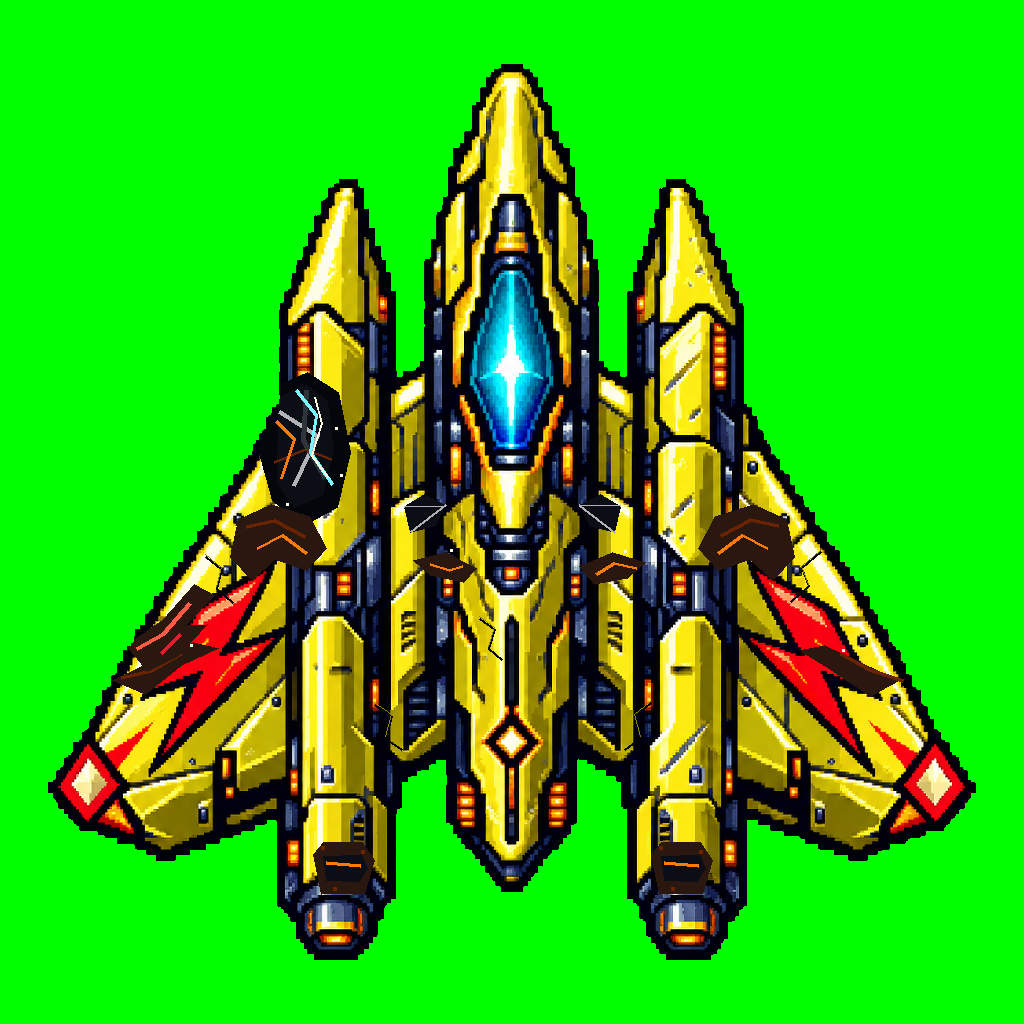
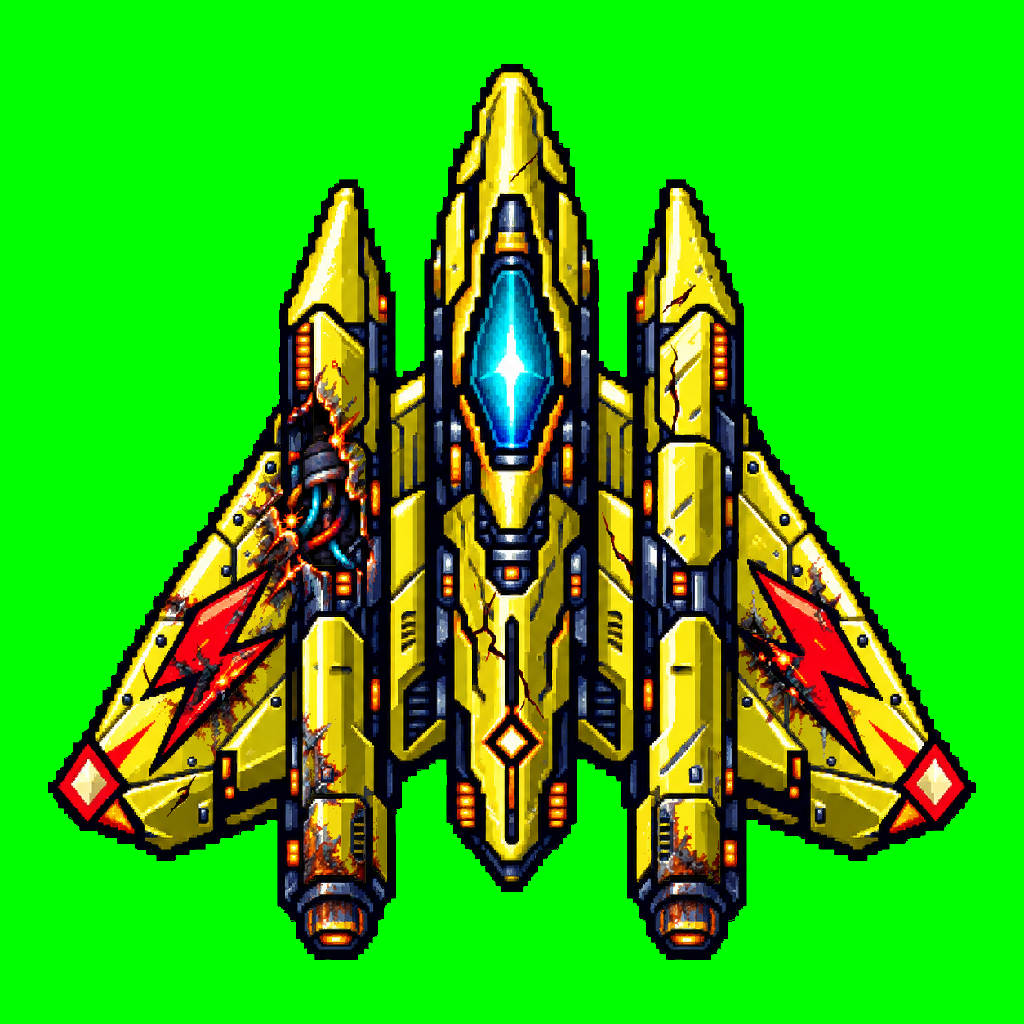
WIP Lightning: painted damage keys (J1c)

diff --git a/Pause/Assets/Art/Resources/ShipArt/Lightning/src~/codex/tools/check_j1c.py b/Pause/Assets/Art/Resources/ShipArt/Lightning/src~/codex/tools/check_j1c.py
@@ -1,0 +1,197 @@
+#!/usr/bin/env python3
+"""Build and audit J1c damage poses.
+
+The build step only resizes generated candidates with nearest-neighbour, copies
+generated pixels whose colour change is above a candidate-specific threshold,
+and clips the result to the approved source mask. It does not draw damage.
+"""
+
+from __future__ import annotations
+
+import argparse
+from collections import deque
+from pathlib import Path
+
+import numpy as np
+from PIL import Image, ImageDraw
+
+
+GREEN = np.array([0, 255, 0], dtype=np.uint8)
+ROOT = Path(__file__).resolve().parent.parent
+BASE_PATH = ROOT / "key_state0.png"
+STATE1_PATH = ROOT / "key_state1.png"
+STATE2_PATH = ROOT / "key_state2.png"
+PREVIEW_PATH = ROOT / "preview_j1.png"
+
+
+def read_rgb(path: Path) -> np.ndarray:
+    image = Image.open(path).convert("RGB")
+    if image.size != (1024, 1024):
+        image = image.resize((1024, 1024), Image.Resampling.NEAREST)
+    return np.asarray(image, dtype=np.uint8)
+
+
+def build_pose(base: np.ndarray, candidate_path: Path, threshold: int) -> np.ndarray:
+    candidate = read_rgb(candidate_path)
+    source_ship = np.any(base != GREEN, axis=2)
+    delta = np.max(np.abs(candidate.astype(np.int16) - base.astype(np.int16)), axis=2)
+    candidate_green = (
+        (candidate[:, :, 1] > 180)
+        & ((candidate[:, :, 1].astype(np.int16) - candidate[:, :, 0].astype(np.int16)) > 100)
+        & ((candidate[:, :, 1].astype(np.int16) - candidate[:, :, 2].astype(np.int16)) > 100)
+    )
+    generated_damage = (delta > threshold) & source_ship & ~candidate_green
+
+    result = base.copy()
+    result[generated_damage] = candidate[generated_damage]
+    result[~source_ship] = GREEN
+    return result
+
+
+def write_rgb(path: Path, pixels: np.ndarray) -> None:
+    Image.fromarray(pixels, mode="RGB").save(path)
+
+
+def connected_regions(mask: np.ndarray, minimum: int = 100) -> list[np.ndarray]:
+    height, width = mask.shape
+    seen = np.zeros_like(mask, dtype=bool)
+    regions: list[np.ndarray] = []
+    for y, x in zip(*np.where(mask & ~seen)):
+        if seen[y, x]:
+            continue
+        queue = deque([(int(y), int(x))])
+        seen[y, x] = True
+        points: list[tuple[int, int]] = []
+        while queue:
+            cy, cx = queue.popleft()
+            points.append((cy, cx))
+            for dy in (-1, 0, 1):
+                for dx in (-1, 0, 1):
+                    if not (dy or dx):
+                        continue
+                    ny, nx = cy + dy, cx + dx
+                    if 0 <= ny < height and 0 <= nx < width and mask[ny, nx] and not seen[ny, nx]:
+                        seen[ny, nx] = True
+                        queue.append((ny, nx))
+        if len(points) >= minimum:
+            regions.append(np.asarray(points, dtype=np.int32))
+    return sorted(regions, key=len, reverse=True)
+
+
+def percent(value: int, denominator: int) -> float:
+    return 100.0 * value / max(1, denominator)
+
+
+def audit(base: np.ndarray, state1: np.ndarray, state2: np.ndarray) -> bool:
+    source_ship = np.any(base != GREEN, axis=2)
+    source_bg = ~source_ship
+    y, x = np.indices(source_ship.shape)
+
+    def row(label: str, image: np.ndarray) -> tuple[np.ndarray, float]:
+        ship = np.any(image != GREEN, axis=2)
+        silhouette = np.logical_xor(source_ship, ship)
+        changed = np.any(image != base, axis=2) & source_ship
+        print(
+            f"{label:12} silhouette={percent(int(silhouette.sum()), int(source_ship.sum())):6.3f}% "
+            f"changed={percent(int(changed.sum()), int(source_ship.sum())):6.3f}% "
+            f"left={percent(int((changed & (x < 512)).sum()), int(source_ship.sum())):6.3f}% "
+            f"right={percent(int((changed & (x >= 512)).sum()), int(source_ship.sum())):6.3f}%"
+        )
+        return changed, percent(int(changed.sum()), int(source_ship.sum()))
+
+    print("J1c validation")
+    print("pose         silhouette  changed  left    right")
+    changed1, change1 = row("state 1", state1)
+    changed2, change2 = row("state 2", state2)
+    pose_delta = np.any(state2 != state1, axis=2) & source_ship
+    print(f"state2-v-s1  changed={percent(int(pose_delta.sum()), int(source_ship.sum())):6.3f}%")
+
+    regions_ok = True
+    print("distinct colours in changed regions (8-connected, >=100 px):")
+    for label, image, changed in (("state 1", state1, changed1), ("state 2", state2, changed2)):
+        regions = connected_regions(changed)
+        counts = []
+        for region in regions:
+            colours = np.unique(image[region[:, 0], region[:, 1]], axis=0)
+            counts.append(len(colours))
+        if counts:
+            print(f"  {label}: regions={len(counts)} min={min(counts)} max={max(counts)}")
+        else:
+            print(f"  {label}: none")
+        regions_ok &= all(count > 20 for count in counts)
+
+    silhouette1 = np.logical_xor(source_ship, np.any(state1 != GREEN, axis=2)).sum()
+    silhouette2 = np.logical_xor(source_ship, np.any(state2 != GREEN, axis=2)).sum()
+    checks = {
+        "state1 silhouette < 0.5%": percent(int(silhouette1), int(source_ship.sum())) < 0.5,
+        "state2 silhouette < 0.5%": percent(int(silhouette2), int(source_ship.sum())) < 0.5,
+        "state1 4-14%": 4.0 < change1 < 14.0,
+        "state2 12-45%": 12.0 < change2 < 45.0,
+        "state2 vs state1 > 8%": percent(int(pose_delta.sum()), int(source_ship.sum())) > 8.0,
+        "state2 left > 3%": percent(int((changed2 & (x < 512)).sum()), int(source_ship.sum())) > 3.0,
+        "state2 right > 3%": percent(int((changed2 & (x >= 512)).sum()), int(source_ship.sum())) > 3.0,
+        "state1 left > 1.5%": percent(int((changed1 & (x < 512)).sum()), int(source_ship.sum())) > 1.5,
+        "state1 right > 1.5%": percent(int((changed1 & (x >= 512)).sum()), int(source_ship.sum())) > 1.5,
+        "damage regions > 20 colours": regions_ok,
+        "background exact #00FF00": bool(np.all(state1[source_bg] == GREEN) and np.all(state2[source_bg] == GREEN)),
+        "no chroma-green on ship": all(
+            not np.any(
+                source_ship
+                & (image[:, :, 1] > 180)
+                & ((image[:, :, 1].astype(np.int16) - image[:, :, 0].astype(np.int16)) > 100)
+                & ((image[:, :, 1].astype(np.int16) - image[:, :, 2].astype(np.int16)) > 100)
+            )
+            for image in (state1, state2)
+        ),
+    }
+    print("checks")
+    passed = True
+    for name, result in checks.items():
+        print(f"  {'PASS' if result else 'FAIL'}  {name}")
+        passed &= result
+    print("RESULT:", "PASS" if passed else "FAIL")
+    return passed
+
+
+def make_preview(base: np.ndarray, state1: np.ndarray, state2: np.ndarray) -> None:
+    canvas = Image.new("RGB", (1536, 512), (11, 11, 26))
+    for index, pixels in enumerate((base, state1, state2)):
+        preview_pixels = pixels.copy()
+        preview_pixels[np.all(preview_pixels == GREEN, axis=2)] = np.array([11, 11, 26], dtype=np.uint8)
+        image = Image.fromarray(preview_pixels, mode="RGB").resize((512, 512), Image.Resampling.NEAREST)
+        canvas.paste(image, (index * 512, 0))
+    draw = ImageDraw.Draw(canvas)
+    for index, label in enumerate(("KEY 0", "KEY 1", "KEY 2")):
+        draw.text((16 + index * 512, 16), label, fill=(245, 253, 253))
+    canvas.save(PREVIEW_PATH)
+
+
+def main() -> int:
+    parser = argparse.ArgumentParser()
+    parser.add_argument("--build", action="store_true")
+    parser.add_argument("--state1-candidate", type=Path)
+    parser.add_argument("--state2-candidate", type=Path)
+    parser.add_argument("--state1-threshold", type=int, default=64)
+    parser.add_argument("--state2-threshold", type=int, default=192)
+    parser.add_argument("--preview", action="store_true")
+    args = parser.parse_args()
+
+    base = read_rgb(BASE_PATH)
+    if args.build:
+        if not args.state1_candidate or not args.state2_candidate:
+            parser.error("--build requires both candidate paths")
+        state1 = build_pose(base, args.state1_candidate, args.state1_threshold)
+        state2 = build_pose(base, args.state2_candidate, args.state2_threshold)
+        write_rgb(STATE1_PATH, state1)
+        write_rgb(STATE2_PATH, state2)
+    else:
+        state1 = read_rgb(STATE1_PATH)
+        state2 = read_rgb(STATE2_PATH)
+
+    if args.preview or args.build:
+        make_preview(base, state1, state2)
+    return 0 if audit(base, state1, state2) else 1
+
+
+if __name__ == "__main__":
+    raise SystemExit(main())
